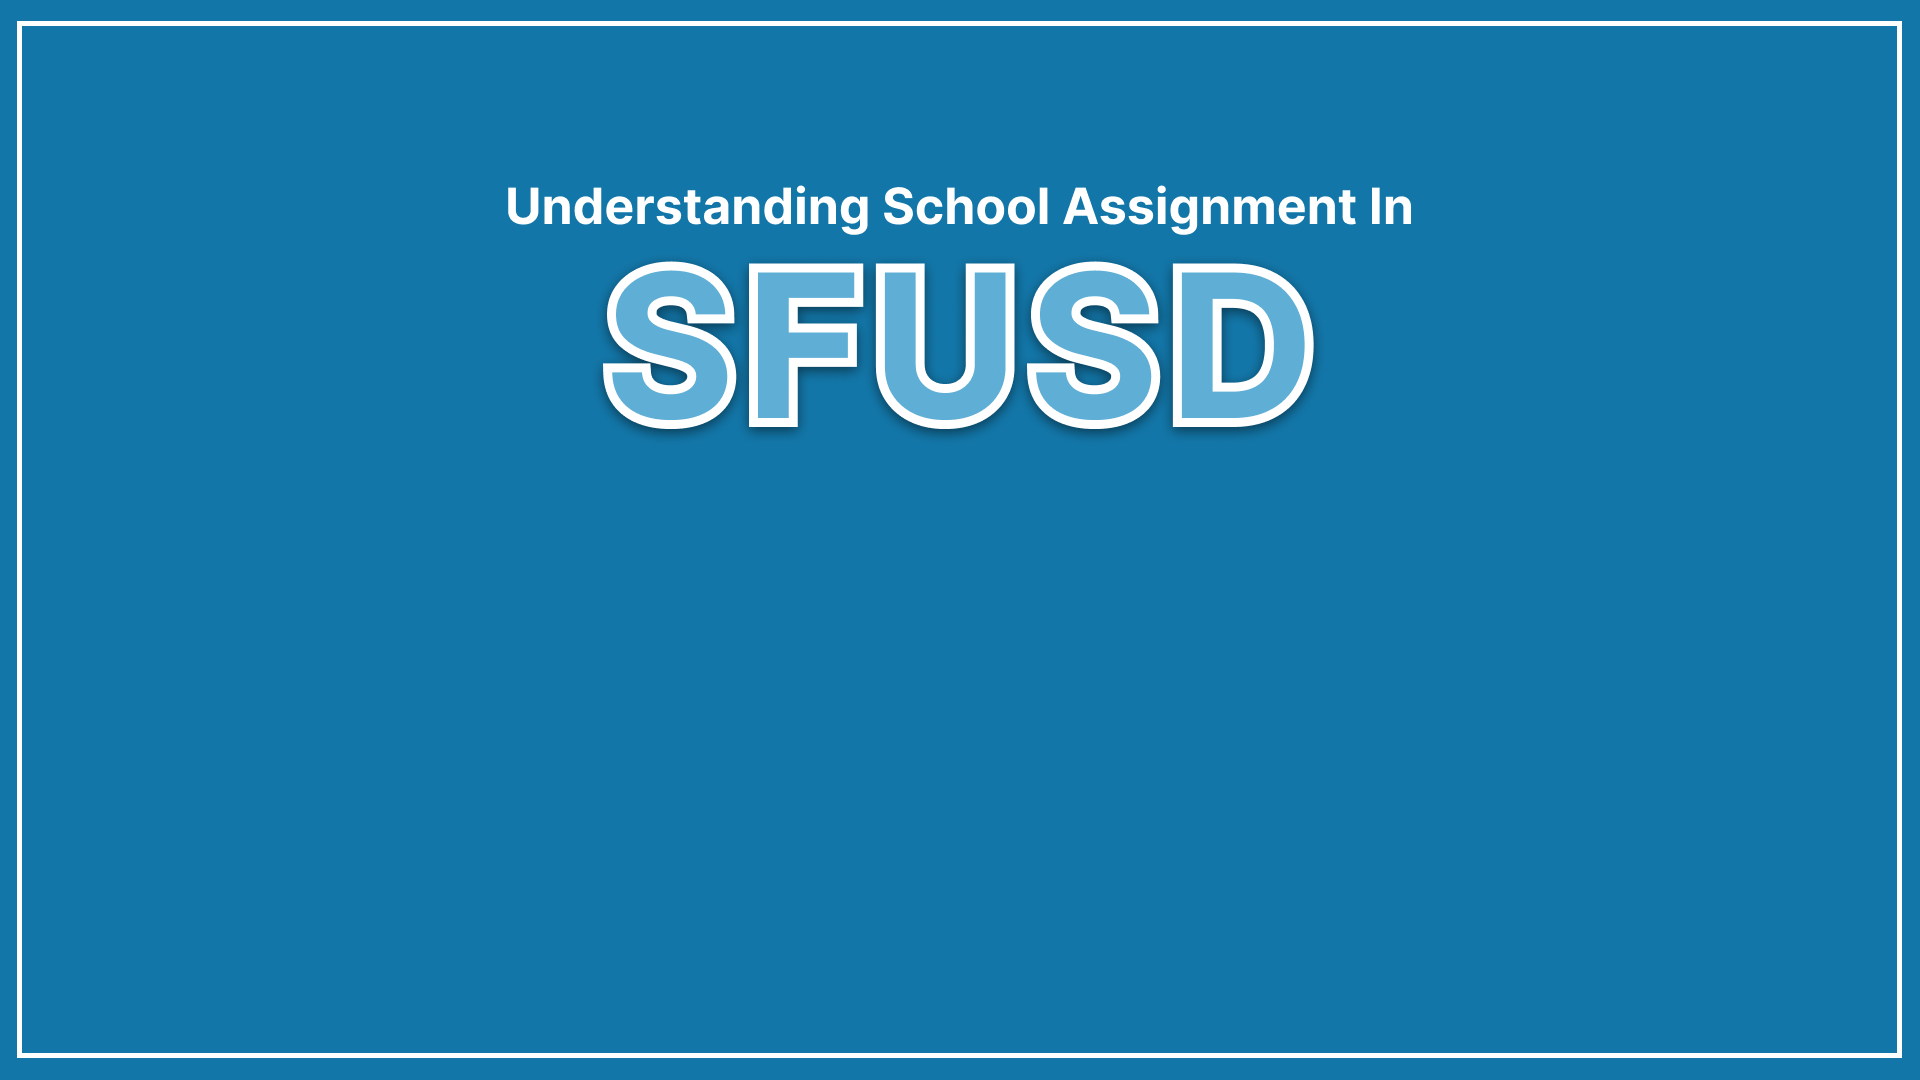
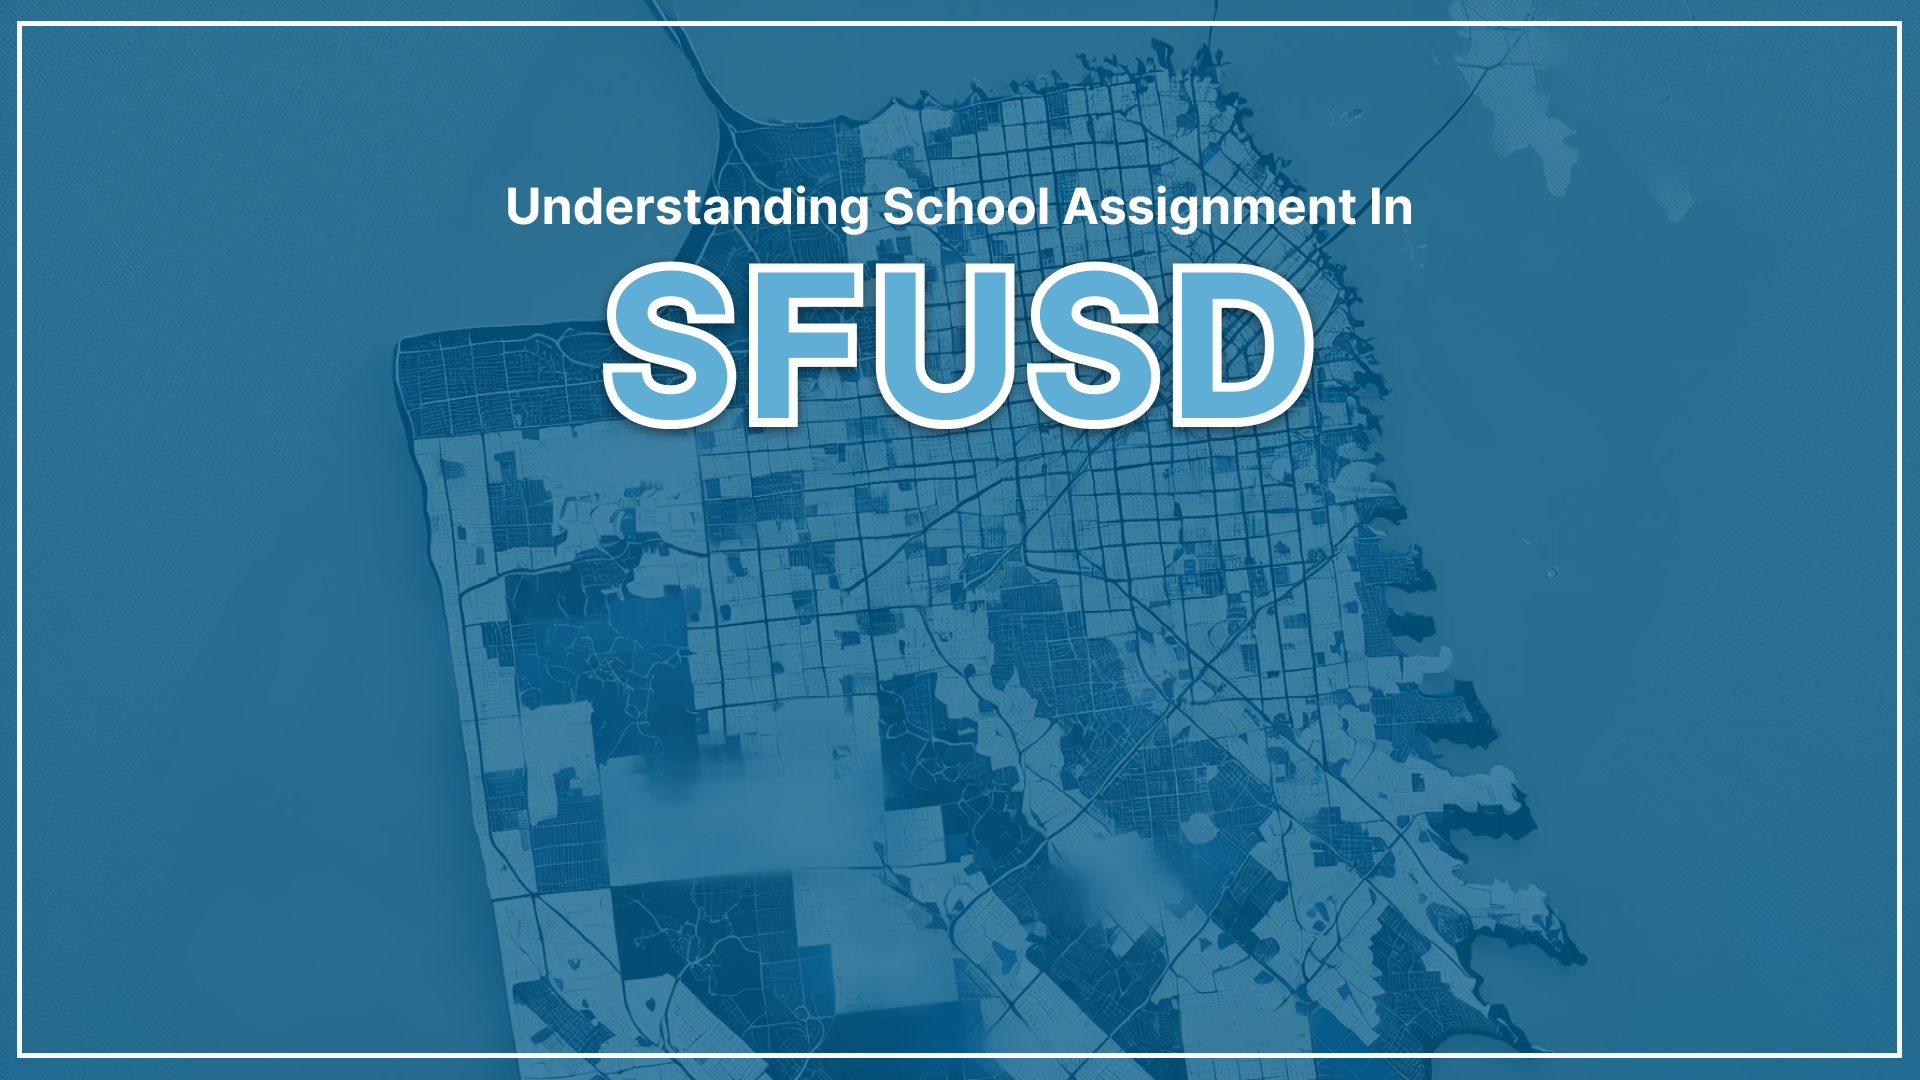
Added 'learn more' section in Part 2

diff --git a/src/components/Part2/Part2.jsx b/src/components/Part2/Part2.jsx
@@ -1,16 +1,19 @@
-import React, { useState } from 'react';
-import { getImageUrl } from '../../utils';
-import styles from './Part2.module.css';
+import React, { useState } from "react";
+import { getImageUrl } from "../../utils";
+import styles from "./Part2.module.css";
 
 const screens = [
   { id: 0, value: getImageUrl("part2/screen0.png") },
   { id: 1, value: getImageUrl("part2/screen1.png") },
   { id: 2, value: getImageUrl("part2/screen2.png") },
-  { id: 3, value: getImageUrl("part2/screen3.png") },
-  { id: 4, value: getImageUrl("part2/screen4.png") },
-  { id: 5, value: getImageUrl("part2/screen5.png") },
-  { id: 6, value: getImageUrl("part2/screen6.png") },
-  { id: 7, value: getImageUrl("part2/screen7.png") }
+  { id: 3, value: getImageUrl("part2/screen6.png") },
+  { id: 4, value: getImageUrl("part2/screen7.png") },
+];
+
+const moreInfo = [
+  { id: 5, value: getImageUrl("part2/screen3.png") },
+  { id: 6, value: getImageUrl("part2/screen4.png") },
+  { id: 7, value: getImageUrl("part2/screen5.png") },
 ];
 
 export const Part2 = () => {
@@ -24,40 +27,69 @@ export const Part2 = () => {
   };
 
   const handleNext = () => {
-    let index = val < screens.length - 1 ? val + 1 : 0;
+    let index = val < screens.length - 1 ? val + 1 : val;
     setVal(index);
     setScreenData(screens[index]);
   };
 
   const handlePrevious = () => {
-    let index = val > 0 ? val - 1 : screens.length - 1;
+    let index = val > 0 ? val - 1 : val;
     setVal(index);
     setScreenData(screens[index]);
   };
 
+  const goBack = () => {
+    setVal(2);
+    setScreenData(screens[2]);
+  };
+
+  const handleLearnMoreClick = (index) => {
+    setScreenData(moreInfo[index]);
+  };
+
   const goHome = () => {
-    window.location.href = '/';
-  }
+    window.location.href = "/";
+  };
 
   return (
-    <section className={styles.container}>
-      <button className={`${styles.btn} ${styles.homeButton}`} onClick={goHome}>
-        <img src={getImageUrl("part2/homeIcon.png")} alt="Home" className={styles.icon} />
-      </button>
-      <button className={`${styles.btn} ${styles.leftButton}`} onClick={handlePrevious}>
-        <img src={getImageUrl("part2/leftArrow.png")} alt="Previous" className={styles.icon} />
-      </button>
-      <div className={styles.imgContainer}>
-        <img src={screenData.value} className={styles.mainImage} alt={`Screen ${screenData.id}`} />
-      </div>
-      <button className={`${styles.btn} ${styles.rightButton}`} onClick={handleNext}>
-        <img src={getImageUrl("part2/rightArrow.png")} alt="Next" className={styles.icon} />
-      </button>
+    <section className={styles.backgroundImage}>
+      {screenData.id < 5 && (
+        <>
+          <button className={`${styles.btn} ${styles.homeButton}`} onClick={goHome}>
+            <img src={getImageUrl("part2/homeIcon.png")} alt="Home" className={styles.icon}/>
+          </button>
+          <button className={`${styles.btn} ${styles.leftButton}`} onClick={handlePrevious}>
+            <img src={getImageUrl("part2/leftArrow.png")} alt="Previous" className={styles.icon}/>
+          </button>
+          <button className={`${styles.btn} ${styles.rightButton}`} onClick={handleNext}>
+            <img src={getImageUrl("part2/rightArrow.png")} alt="Next" className={styles.icon}/>
+          </button>
+        </>
+      )}
+      
+      <img src={screenData.value} className={styles.mainImage} alt={`Screen ${screenData.id}`}/>
+      {screenData.id === 2 && (
+        <div className={styles.btnContainer}>
+          <button className={styles.learnMoreBtn} onClick={() => handleLearnMoreClick(0)}> Learn More </button>
+          <button className={styles.learnMoreBtn} onClick={() => handleLearnMoreClick(1)}> Learn More </button>
+          <button className={styles.learnMoreBtn} onClick={() => handleLearnMoreClick(2)}> Learn More </button>
+        </div>
+      )}
+
+      {screenData.id > 5 && (
+        <>
+          <button className={`${styles.btn} ${styles.homeButton}`} onClick={goBack}>
+            <img src={getImageUrl("part2/leftArrow.png")} alt="Back" className={styles.icon}/>
+          </button>
+        </>
+      )}
+
       <div className={styles.thumbnailContainer}>
         {screens.map((data, i) => (
-          <img
-            key={data.id}
-            className={`${styles.thumbnail} ${screenData.id === i ? styles.clicked : ''}`}
+          <img key={data.id}
+            className={`${styles.thumbnail} ${
+              screenData.id === i ? styles.clicked : ""
+            }`}
             src={data.value}
             onClick={() => handleClick(i)}
             alt={`Thumbnail ${data.id}`}

diff --git a/src/components/Part2/Part2.module.css b/src/components/Part2/Part2.module.css
@@ -1,79 +1,122 @@
 .container {
-    position: relative;
-    display: flex;
-    flex-direction: column;
-    align-items: center;
-    width: 100%;
+  position: relative;
+  display: flex;
+  flex-direction: column;
+  align-items: center;
+  width: 100%;
 }
 
-.imgContainer {
-    display: flex;
-    justify-content: center;
-    align-items: center;
-    width: 100%;
+/* .imgContainer {
+  display: inline;
+  justify-content: center;
+  align-items: center;
+  width: 100%;
+  height: 100%;
+  position: relative;
+} */
+
+.backgroundImage {
+  position: relative;
+  top: 0;
+  left: 0;
+  width: 100%;
+  height: auto;
+  background-size: cover;
+  background-position: center;
 }
 
 .mainImage {
-    max-width: 100%;
-    height: auto;
+  max-width: 100%;
+  height: auto;
 }
 
 .thumbnailContainer {
-    display: flex;
-    justify-content: center;
-    margin-top: 10px;
+  display: flex;
+  justify-content: center;
+  margin-top: 10px;
 }
 
 .thumbnail {
-    width: 50px;
-    height: 50px;
-    margin: 0 5px;
-    cursor: pointer;
-    opacity: 0.6;
-    transition: opacity 0.3s;
+  width: 50px;
+  height: 50px;
+  margin: 0 5px;
+  cursor: pointer;
+  opacity: 0.6;
+  transition: opacity 0.3s;
 }
 
 .thumbnail:hover,
 .clicked {
-    opacity: 1;
+  opacity: 1;
 }
 
 .btn {
-    background-color: transparent;
-    border: none;
-    padding: 10px;
-    cursor: pointer;
-    margin: 5px;
-    border-radius: 5px;
+  background-color: transparent;
+  border: none;
+  padding: 10px;
+  cursor: pointer;
+  margin: 5px;
+  border-radius: 5px;
 }
 
 .btn:hover .icon {
-    filter: brightness(0.8);
+  filter: brightness(0.8);
 }
 
 .icon {
-    width: 50px;
-    height: 50px;
+  width: 50px;
+  height: 50px;
 }
 
 .leftButton {
-    position: absolute;
-    left: 2%;
-    top: 50%;
-    transform: translateY(-50%);
+  position: absolute;
+  left: 2%;
+  top: 50%;
+  transform: translateY(-50%);
 }
 
 .rightButton {
-    position: absolute;
-    right: 2%;
-    top: 50%;
-    transform: translateY(-50%);
+  position: absolute;
+  right: 2%;
+  top: 50%;
+  transform: translateY(-50%);
 }
 
 .homeButton {
-    position: absolute;
-    left: 4%;
-    top: 3%;
-    transform: translateY(-50%);
-    transform: translateX(-50%);
-  }
+  position: absolute;
+  left: 4%;
+  top: 3%;
+  transform: translateY(-50%);
+  transform: translateX(-50%);
+}
+
+.backButton {
+  position: absolute;
+  left: 4%;
+  top: 3%;
+  transform: translateY(-50%);
+  transform: translateX(-50%);
+}
+
+.btnContainer {
+  position: absolute;
+  top: 65%;
+  left: 50%;
+  transform: translate(-50%, -50%);
+  gap: 100px;
+  display: flex;
+  flex-direction: row;
+  justify-content: center;
+  align-items: center;
+}
+
+.learnMoreBtn {
+  background-color: #3d3d3d;
+  color: #f2f2f2;
+  border-radius: 42px;
+  width: 200px;
+  height: 50px;
+  border: transparent;
+  font-size: 20px;
+  z-index: 1;
+}

diff --git a/src/components/Part3/Part3.jsx b/src/components/Part3/Part3.jsx
@@ -26,13 +26,13 @@ export const Part3 = () => {
   };
 
   const handleNext = () => {
-    let index = val < screens.length - 1 ? val + 1 : 0;
+    let index = val < screens.length - 1 ? val + 1 : index;
     setVal(index);
     setScreenData(screens[index]);
   };
 
   const handlePrevious = () => {
-    let index = val > 0 ? val - 1 : screens.length - 1;
+    let index = val > 0 ? val - 1 : index;
     setVal(index);
     setScreenData(screens[index]);
   };
